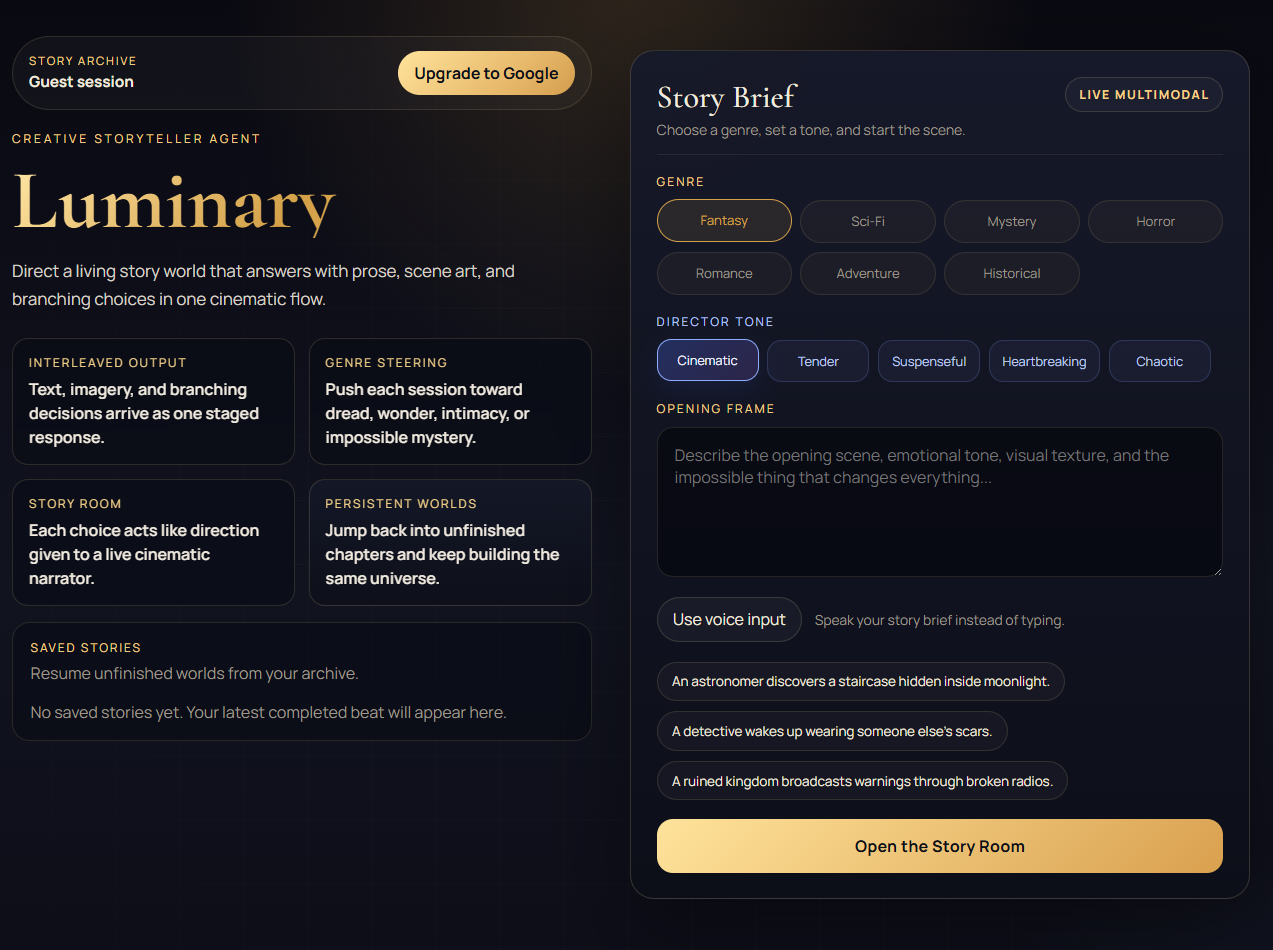
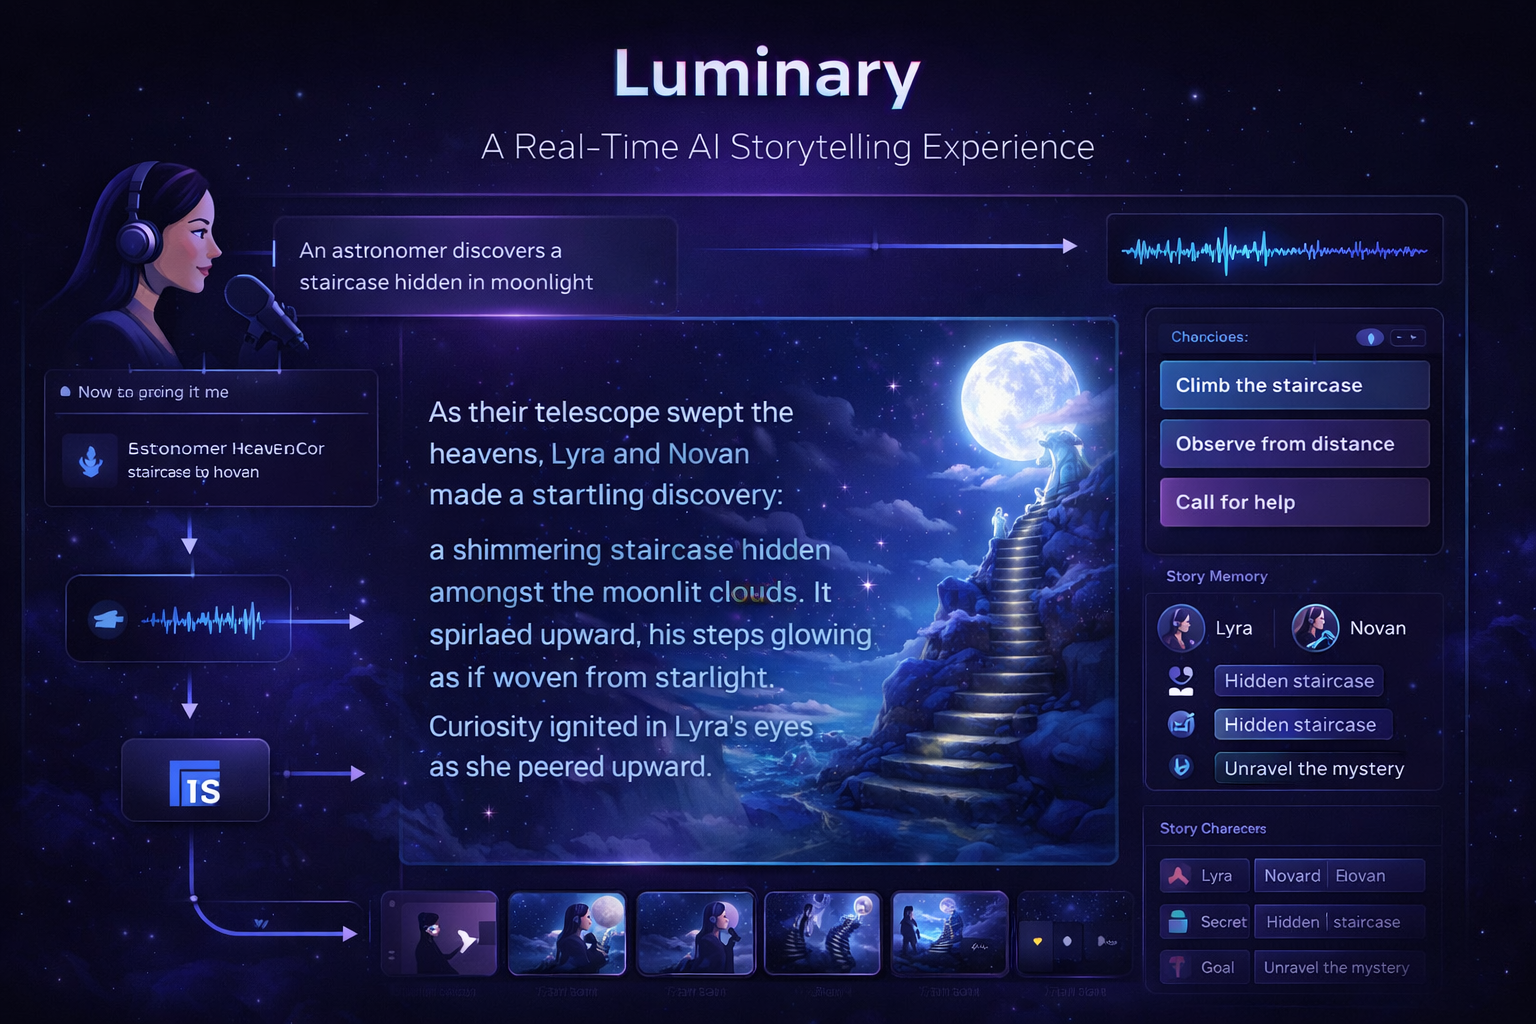
Refine showcase layout spacing and update project cards

diff --git a/src/index.css b/src/index.css
@@ -158,46 +158,50 @@ section {
     @apply w-full mt-20 px-5 md:px-20 py-10 md:py-20 flex items-center justify-center;
 
     .showcaselayout {
-      @apply flex xl:flex-row flex-col gap-10 justify-between;
+      @apply flex xl:flex-row flex-col items-start gap-6 md:gap-8 xl:gap-10 w-full;
     }
 
     .first-project-wrapper {
-      @apply h-full flex flex-col justify-between xl:w-[60%];
+      @apply h-full flex flex-col justify-between xl:flex-[1.65] w-full min-w-0;
 
       .image-wrapper {
-        @apply xl:h-[70vh] md:h-[50vh] h-96 relative;
+        @apply xl:h-[62vh] lg:h-[52vh] md:h-[46vh] h-[18rem] relative overflow-hidden rounded-xl;
 
         img {
-          @apply w-full h-full object-cover rounded-xl absolute inset-0;
+          @apply w-full h-full object-cover absolute inset-0;
         }
       }
 
       .text-content {
-        @apply space-y-5 mt-5;
+        @apply space-y-4 md:space-y-5 mt-4 md:mt-5;
 
         .badges {
           @apply flex gap-2 mb-4;
         }
 
         h2 {
-          @apply text-2xl md:text-3xl lg:text-4xl font-bold;
+          @apply text-2xl md:text-3xl lg:text-4xl font-bold leading-tight;
         }
       }
     }
 
     .project-list-wrapper {
-      @apply flex md:flex-row flex-col xl:flex-col gap-10 xl:w-[40%];
+      @apply flex md:flex-row flex-col xl:flex-col gap-6 md:gap-8 w-full xl:flex-1 min-w-0;
+
+      .project {
+        @apply w-full flex flex-col;
+      }
 
       .image-wrapper {
-        @apply xl:h-[37vh] md:h-52 lg:h-72 h-64 relative rounded-xl xl:px-5 2xl:px-12 py-0;
+        @apply xl:h-[28.5vh] lg:h-72 md:h-56 h-56 relative rounded-xl overflow-hidden;
       }
 
       img {
-        @apply w-full h-full object-contain rounded-xl;
+        @apply w-full h-full object-cover rounded-xl;
       }
 
       h2 {
-        @apply text-lg md:text-xl lg:text-2xl font-semibold mt-5;
+        @apply text-lg md:text-xl lg:text-2xl font-semibold mt-3 md:mt-4 leading-snug;
       }
     }
   }

diff --git a/src/constants/index.js b/src/constants/index.js
@@ -155,7 +155,10 @@ const expCards = [
     title: "Technical Consultant",
     date: "Feb 2025 - Present",
     responsibilities: [
-      " Building a website that transforms ideas into live, working code instantly—like magic for developers and dreamers alike.",
+      "Built a general-purpose Defect Analysis system using a multi-agent ML pipeline with hierarchical clustering, embeddings, and LLM reasoning to automate defect grouping and RCA generation.",
+      "Created multi-level clustering flows to identify defect themes, families, and risk patterns, improving analysis accuracy by 40%.",
+      "Developed a requirement to test case to defect traceability feature that helps predict potential defects and understand system-wide impacts.",
+      "Built a platform to convert natural language prompts into full-stack websites using React and Express, improving code quality and UX by 70% through prompt optimization.",
     ],
   },
   {
@@ -278,3 +281,4 @@ export {
   techStackImgs,
   navLinks,
 };
+

diff --git a/src/sections/ShowcaseSection.jsx b/src/sections/ShowcaseSection.jsx
@@ -73,7 +73,7 @@ const AppShowcase = () => {
             </div>
           </div>
 
-          <div className="project-list-wrapper overflow-hidden">
+          <div className="project-list-wrapper">
             <div className="project" ref={libraryRef}>
               <div className="image-wrapper">
                 <a
@@ -85,7 +85,6 @@ const AppShowcase = () => {
                 </a>
               </div>
               <h2>
-                &ensp;&ensp;&ensp;&ensp;
                 <a
                   href="https://github.com/NiveditaAryaK/agent-vault"
                   target="_blank"
@@ -107,7 +106,6 @@ const AppShowcase = () => {
                 </a>
               </div>
               <h2>
-                &ensp;&ensp;&ensp;&ensp;
                 <a
                   href="https://github.com/SangamSmilikaReddy/DFU"
                   target="_blank"
